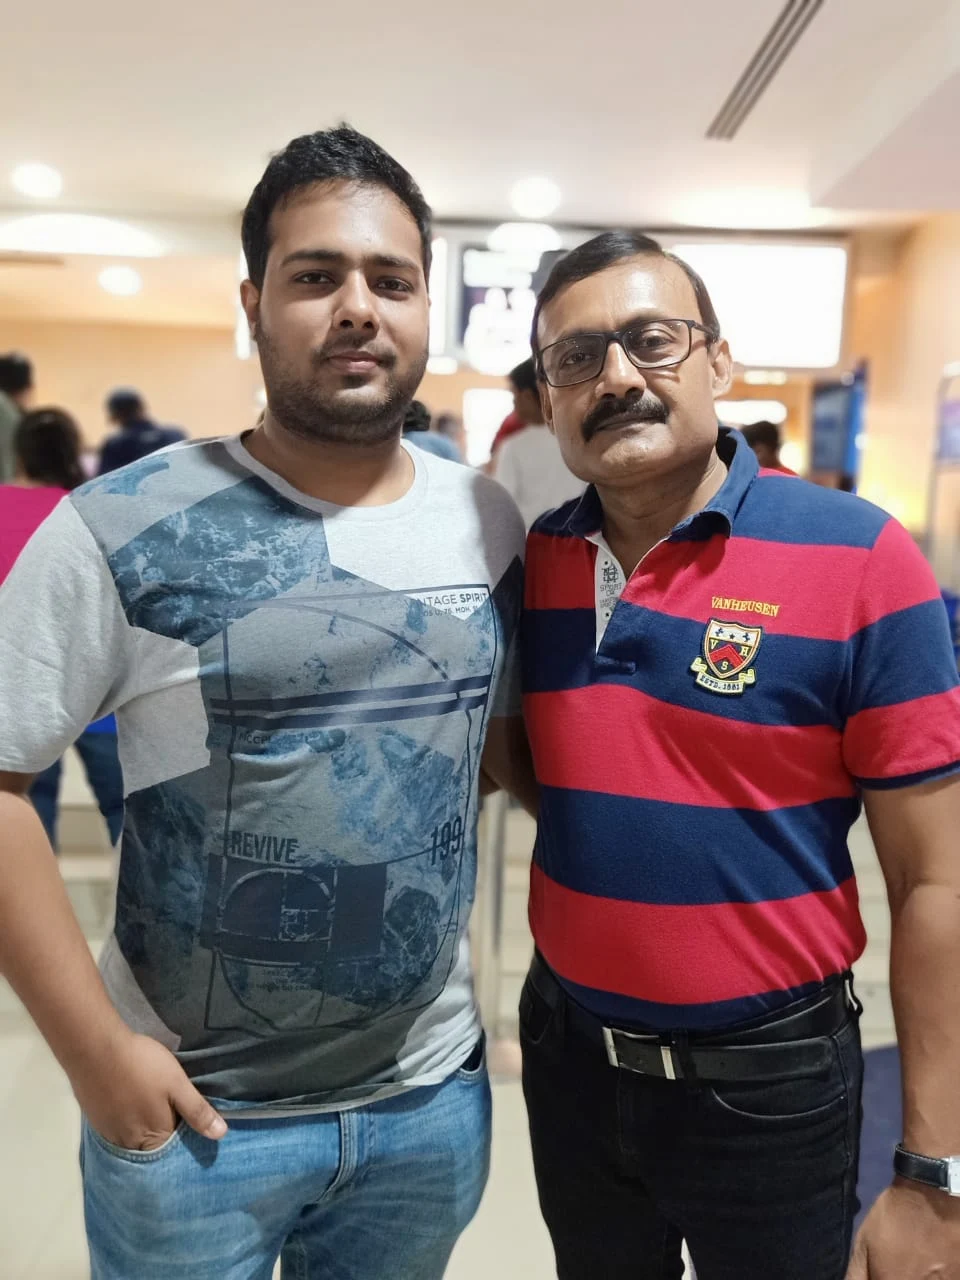
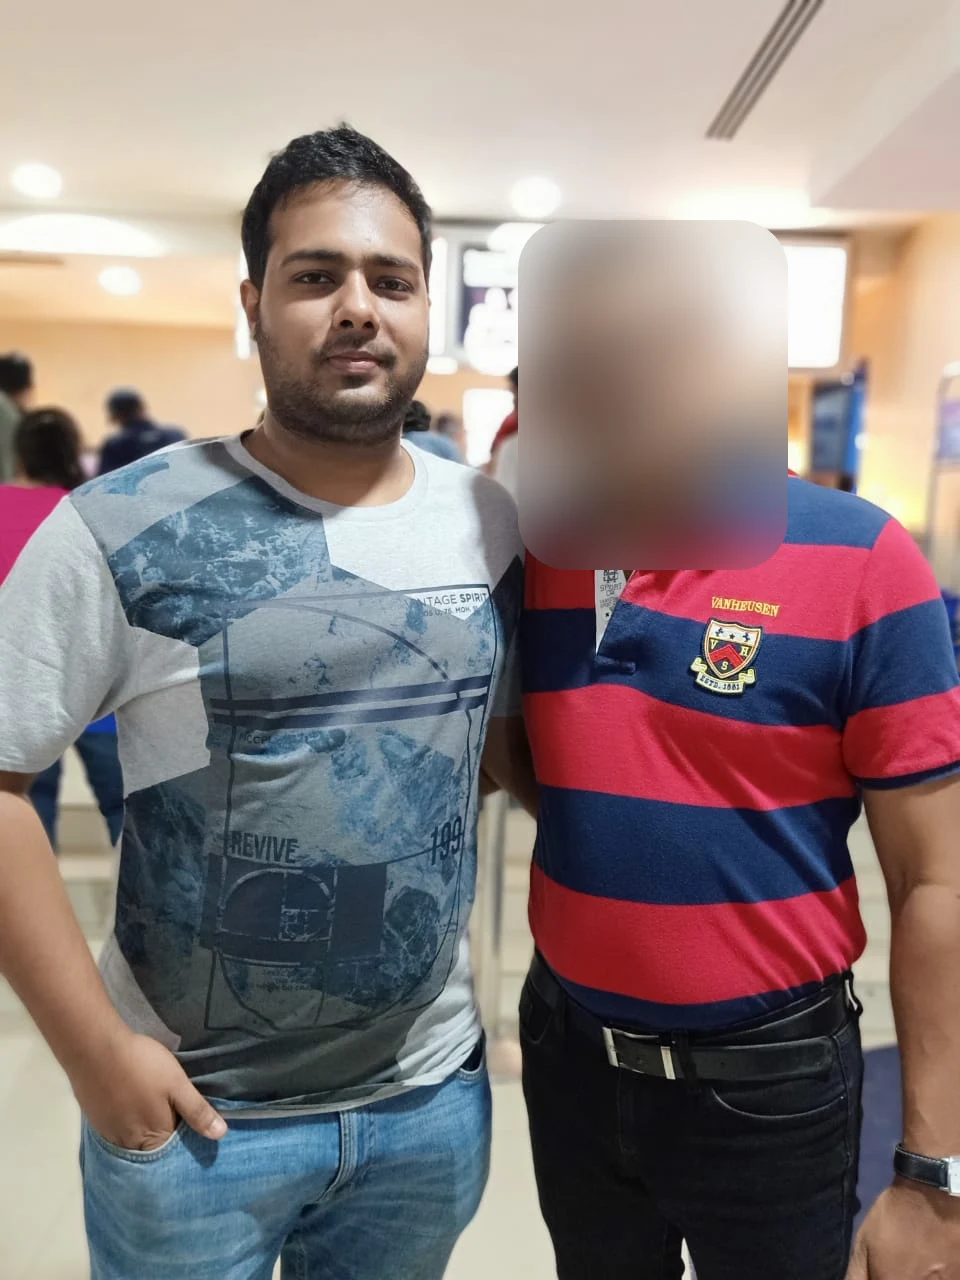
Shorten the founder story and blur the father's face
Condense the letter into three chapters while retaining its emotional arc, key events, and all six photos. Group the later portraits and permanently blur the father's face in the web image.

Copilot-Session: ef366c2a-497a-44c4-8f17-80fd8b657a9e

Changed region(s): [[0.5312, 0.1562, 0.8438, 0.4688]]

diff --git a/src/pages/Coach.tsx b/src/pages/Coach.tsx
@@ -21,9 +21,7 @@ const Coach = () => (
             <span>that I was the problem</span>
           </h1>
           <p className="founder-lead">
-            This isn’t a story about finding more willpower. It’s about years
-            spent looking for answers, and slowly learning to ask different
-            questions.
+            How years of self-blame became the reason I built CERTAIN.
           </p>
           <p className="founder-byline">By Akshat · Founder of CERTAIN</p>
         </div>
@@ -58,29 +56,17 @@ const Coach = () => (
         <article className="founder-chapter" data-reveal="">
           <h2>My Story</h2>
           <p className="founder-opening">
-            For more than 15 years, I lived with obesity. And for much of that
-            time, every attempt to change came with the same explanation:
-            I wasn’t doing enough. Not consistent enough. Not eating the right
-            foods. Not training hard enough. Not taking the right fat burners
-            or supplements.
+            For more than 15 years, I lived with obesity, believing I wasn’t
+            trying hard enough. I avoided photographs and mirrors. Fit people
+            seemed like deities who had solved an equation I couldn’t figure out.
           </p>
           <p>
-            I avoided being photographed and looked away from mirrors. Fit
-            people seemed almost like deities, as though they had solved an
-            equation I couldn’t figure out.
-          </p>
-          <p>
-            A nutritionist would hand me a diet and the hope of a fresh start.
-            Two weeks later, I couldn’t keep going. I didn’t question the plan.
-            I questioned myself.
-          </p>
-          <p>
-            At the gym, I worked hard. I gained some muscle and lost some weight.
-            For a while, it felt like progress. But I couldn’t sustain it, and
-            the weight returned quickly.
+            Nutritionists gave me diets I couldn’t sustain beyond two weeks.
+            At the gym, I gained muscle and lost weight, only to regain it
+            quickly. Every fresh start ended with the same feeling.
           </p>
           <blockquote className="founder-pullquote">
-            The weight came back. And with it, the belief that I had failed.
+            I didn’t question the plan. I questioned myself.
           </blockquote>
           <p>
             Each time, I gave it the same name: a lack of discipline, and knowledge.
@@ -110,111 +96,72 @@ const Coach = () => (
 
         <article className="founder-chapter" data-reveal="">
           <span className="founder-chapter-date">JUNE 2021</span>
-          <h2>One last promise to myself</h2>
+          <h2>When the answers conflicted</h2>
           <p>
-            A friend told me about a keto coach who had helped him lose more than
-            40 kg. His results gave me hope. I decided to try again, with a
-            promise that felt final: if this didn’t work, I would stop trying
-            to lose weight.
+            In June 2021, a friend recommended a keto coach who had helped him
+            lose more than 40 kg. I promised myself: if this didn’t work,
+            I would stop trying.
           </p>
           <p>
-            The coach said humans weren’t optimised to eat carbohydrates and
-            should eat only fats and protein. I believed in results, and there
-            were results in front of me. So I trusted the explanation. Perhaps,
-            I thought, this was the answer I had been missing.
-          </p>
-        </article>
-
-        <article className="founder-chapter" data-reveal="">
-          <h2>When the answers stopped making sense</h2>
-          <p>
-            Six months later, my gastrointestinal issues had become severe
-            enough to send me to a doctor. He told me I had stage-2 NAFLD and
-            warned that I was close to liver cirrhosis. My liver, he said,
-            looked as though I had been drinking a bottle of scotch every day.
+            His message was simple: no carbs, only fats and protein. I saw
+            results, and believed him.
           </p>
           <p>
-            There was a bottle of whisky on my table. I hadn’t touched it for
-            months, not since I’d started the plan. I had left it there as a
-            reminder of my resolve.
+            Six months later, severe gastrointestinal problems led me to a
+            doctor. He told me I had stage-2 NAFLD and was close to liver
+            cirrhosis. He compared my liver to someone drinking scotch daily;
+            my own bottle of whisky had sat untouched for months, a reminder
+            of my resolve.
           </p>
           <p>
-            When I shared the doctor’s findings, the coach dismissed them and
-            told me to continue his plan. He wasn’t willing to believe what
-            the doctor had found.
-          </p>
-          <p>
-            The keto coach told me not to listen to the nutritionists. The gym
-            coach told me not to listen to the keto coach. My doctor, too,
-            told me not to listen to the keto coach.
-          </p>
-          <p>
-            Every direction came with another warning about whom not to trust.
-            I was caught in the middle, trying to make sense of advice that
-            kept cancelling itself out.
+            The keto coach dismissed the findings and warned me against
+            nutritionists. My gym coach and doctor warned me against him.
+            I was caught between voices, with no clear answer.
           </p>
           <p className="founder-emphasis">
-            Enough, I thought. I had to take accountability for my own
-            transformation. I needed to be able to rely on myself: to learn
-            the science, question what I was being told, and understand the
-            path I was following.
+            Enough. I had to take accountability for my own transformation:
+            understand the science, and learn to rely on myself.
           </p>
         </article>
 
         <article className="founder-chapter" data-reveal="">
-          <h2>Learning, rather than starting over</h2>
+          <h2>Why CERTAIN exists</h2>
           <p>
-            In the years that followed, I spent time learning and experimenting
-            with exercise science and nutrition science. They were helpful,
-            enormously so. But the real difference came from something I
-            hadn’t found in those lessons: a mindset around nutrition,
-            science, and habits.
+            Learning and experimenting with exercise science and nutrition
+            science helped. But the real difference was a mindset around
+            nutrition, science, and habits, shaped by hard-earned coping
+            strategies and the scars of failures I learnt from.
           </p>
           <p>
-            I carry the scars of that learning: hard-earned coping strategies,
-            failures I had to understand, and patterns I learnt to avoid.
-            It wasn’t one perfect plan or one sudden breakthrough. It was a
-            mindset that kept evolving as I learned to keep going.
+            Food, movement, mindset, and habits aren’t separate answers.
+            They form a continuously evolving loop: learn, adjust, keep going.
+            I built CERTAIN to offer the support I had needed, not another
+            rigid plan or another reason to blame yourself.
           </p>
-          <figure className="founder-memory founder-memory--portrait">
-            <img
-              src={akshatPortrait}
-              alt="Akshat wearing sunglasses and a cap in a car after his transformation"
-              width="1050"
-              height="1400"
-              loading="lazy"
-              decoding="async"
-            />
-            <figcaption>A little further along. Still learning.</figcaption>
-          </figure>
-        </article>
-
-        <article className="founder-chapter" data-reveal="">
-          <h2>And that is where CERTAIN began</h2>
-          <p>
-            I came to believe that much of the health industry was looking at
-            only part of the picture. Weight loss isn’t just nutrition. It
-            isn’t just exercise, mindset, or habits. These things belong
-            together, in a continuously evolving loop. What we learn in one
-            area helps us adapt the others.
-          </p>
-          <p>
-            I founded CERTAIN because I wanted to offer the kind of support
-            I had needed: not another rigid plan, and not another reason to
-            blame yourself, but a way to understand what isn’t working and
-            find a way forward.
-          </p>
-          <figure className="founder-memory founder-memory--life">
-            <img
-              src={akshatMusic}
-              alt="Akshat singing and playing an acoustic guitar after his transformation"
-              width="788"
-              height="1400"
-              loading="lazy"
-              decoding="async"
-            />
-            <figcaption>Beyond the numbers.</figcaption>
-          </figure>
+          <div className="founder-later-photos">
+            <figure className="founder-memory founder-memory--portrait">
+              <img
+                src={akshatPortrait}
+                alt="Akshat wearing sunglasses and a cap in a car after his transformation"
+                width="1050"
+                height="1400"
+                loading="lazy"
+                decoding="async"
+              />
+              <figcaption>A little further along. Still learning.</figcaption>
+            </figure>
+            <figure className="founder-memory founder-memory--life">
+              <img
+                src={akshatMusic}
+                alt="Akshat singing and playing an acoustic guitar after his transformation"
+                width="788"
+                height="1400"
+                loading="lazy"
+                decoding="async"
+              />
+              <figcaption>Beyond the numbers.</figcaption>
+            </figure>
+          </div>
         </article>
       </div>
     </section>
@@ -228,9 +175,8 @@ const Coach = () => (
           You don’t have to do this alone.
         </h2>
         <p>
-          There is no snake oil here. CERTAIN uses scientifically grounded,
-          evidence-based methods, bringing food, movement, mindset, and habits
-          together. We keep learning with you, and adapting around your real life.
+          No snake oil. Scientifically grounded, evidence-based methods,
+          with support that adapts to your life.
         </p>
         <p className="founder-mission-promise">
           Weight loss is hard. But we are here to make the journey easier for

diff --git a/src/pages/Coach.css b/src/pages/Coach.css
@@ -36,7 +36,7 @@
 }
 
 .founder-hero-content {
-  padding-top: 54px;
+  padding-top: 36px;
 }
 
 .founder-intro {
@@ -80,8 +80,8 @@
   display: grid;
   grid-template-columns: repeat(2, minmax(0, 1fr));
   gap: 34px;
-  width: min(100%, 480px);
-  margin: 52px auto 0;
+  width: min(100%, 420px);
+  margin: 36px auto 0;
 }
 
 .founder-photo {
@@ -123,7 +123,7 @@
 }
 
 .founder-story {
-  padding: 64px 0 0;
+  padding: 48px 0 0;
 }
 
 .founder-reading-column {
@@ -133,14 +133,14 @@
 }
 
 .founder-chapter {
-  margin-bottom: 48px;
+  margin-bottom: 36px;
 }
 
 .founder-chapter + .founder-chapter::before {
   display: block;
   width: 44px;
   height: 1px;
-  margin-bottom: 40px;
+  margin-bottom: 30px;
   background: #bbc8d0;
   content: "";
 }
@@ -256,6 +256,20 @@
 .founder-memory--life {
   width: min(100%, 360px);
   transform: rotate(1deg);
+}
+
+.founder-later-photos {
+  display: grid;
+  grid-template-columns: repeat(2, minmax(0, 1fr));
+  align-items: start;
+  gap: 24px;
+  width: min(100%, 560px);
+  margin: 36px auto 0;
+}
+
+.founder-later-photos .founder-memory {
+  width: 100%;
+  margin: 0;
 }
 
 .founder-mission {
@@ -416,6 +430,10 @@
   }
 
   .founder-memory-photos {
+    gap: 14px;
+  }
+
+  .founder-later-photos {
     gap: 14px;
   }
 
